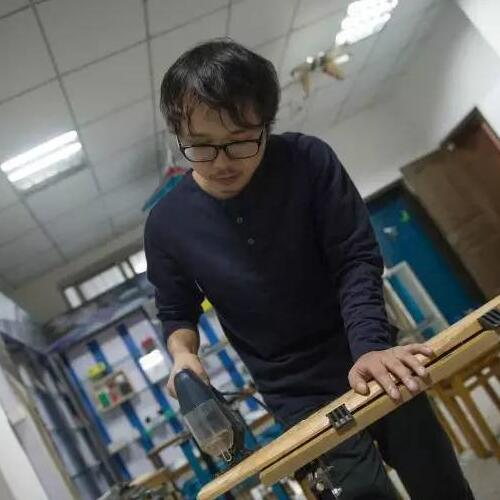
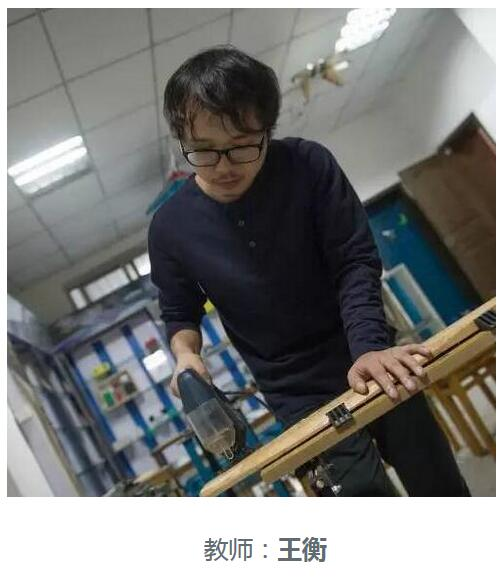
修改教师照片

diff --git a/course/teacher/teacher.html b/course/teacher/teacher.html
@@ -38,13 +38,8 @@
       <p style="text-indent:3em;"><img src="data/kebiao1.jpg" width="691" height="782"><br> </p>
 
       <h2>机器人课程教师团队</h2>
-      <p style="text-indent:2em;"><img src="data/wangheng.jpg" width="350" height="350">&nbsp;&nbsp;
-         <img src="data/zhangberlin.jpg" width="350" height="350"></p>
-      <p style="text-indent:10em;">教师：<strong>王衡</strong>&nbsp;&nbsp;&nbsp;&nbsp;&nbsp;
-        &nbsp;&nbsp;&nbsp;&nbsp;&nbsp;&nbsp;&nbsp; &nbsp;&nbsp;&nbsp;&nbsp;&nbsp;&nbsp;&nbsp;
-        &nbsp;&nbsp;&nbsp;&nbsp;&nbsp;&nbsp;&nbsp; &nbsp;&nbsp;&nbsp;&nbsp;&nbsp;&nbsp;&nbsp;
-        &nbsp;&nbsp;&nbsp;&nbsp;&nbsp;&nbsp;&nbsp;
-        教师：<strong>张柏霖</strong> </p></br>
+      <p style="text-indent:2em;"><img src="data/wangheng.jpg" width="350" height="400">&nbsp;&nbsp;
+         <img src="data/zhangberlin.jpg" width="350" height="400"></p></br>
 
 
 
